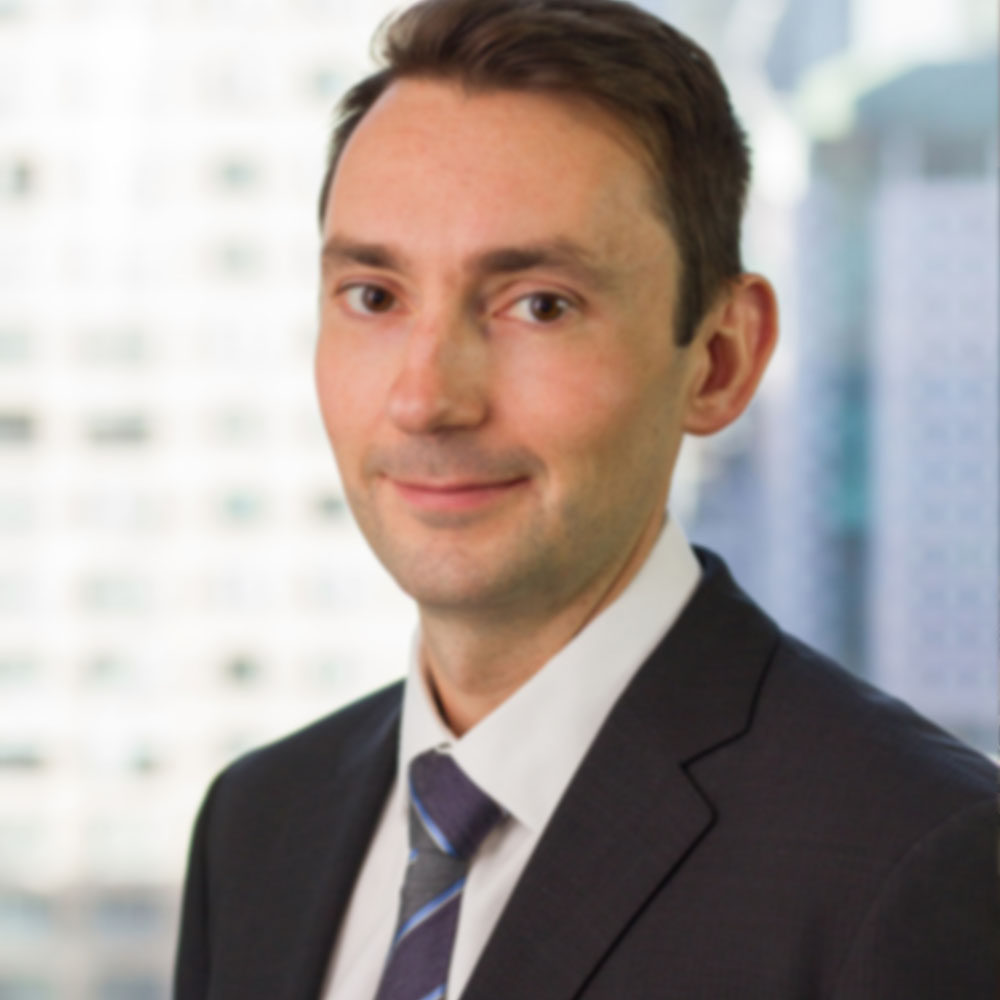
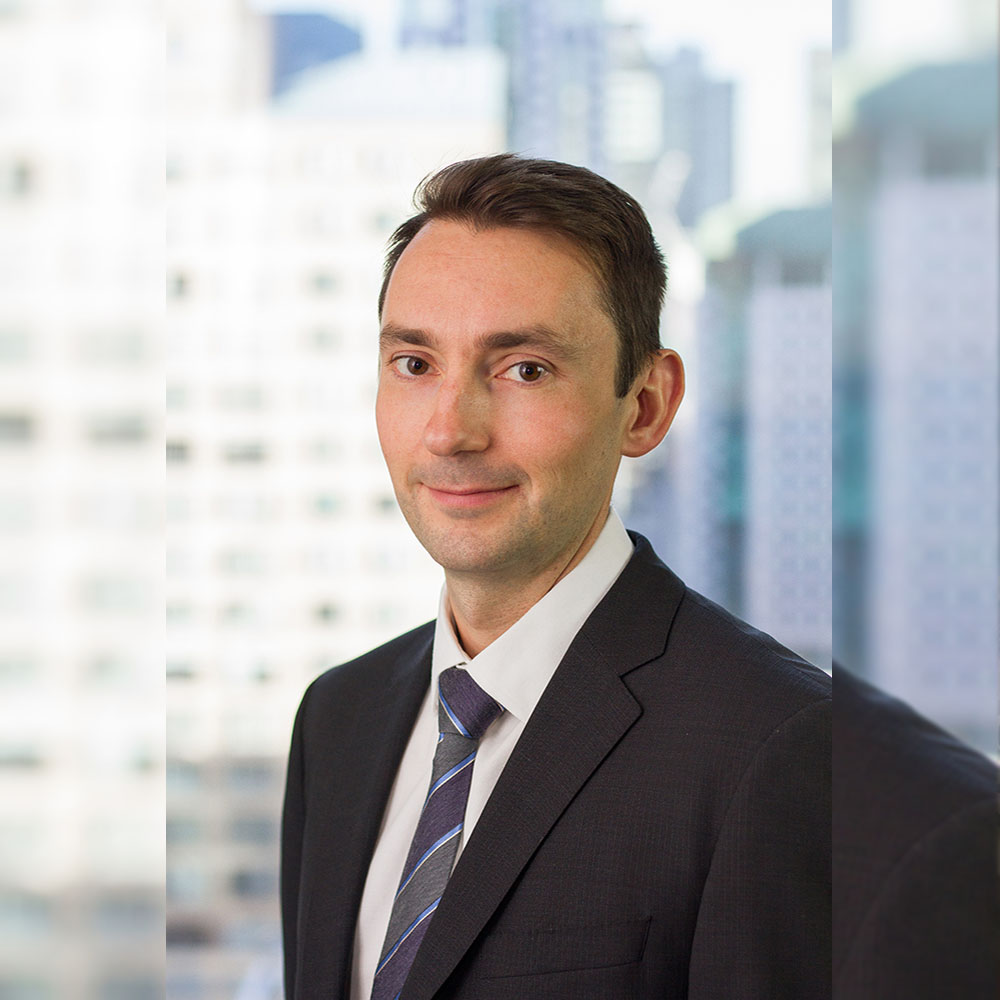
Fix typo and blurry photo

diff --git a/work-northern.html b/work-northern.html
@@ -108,7 +108,7 @@
             </div>
             <div class="col-md-3 ml-auto" data-aos="fade-up" data-aos-delay="100">
               <div class="sticky-content">
-                <h3 class="h3">2016-2019</h3>
+                <h3 class="h3">2016-2018</h3>
                 <p class="mb-4"><span class="text-muted">Photography</span></p>
 
                 <div class="mb-5">
